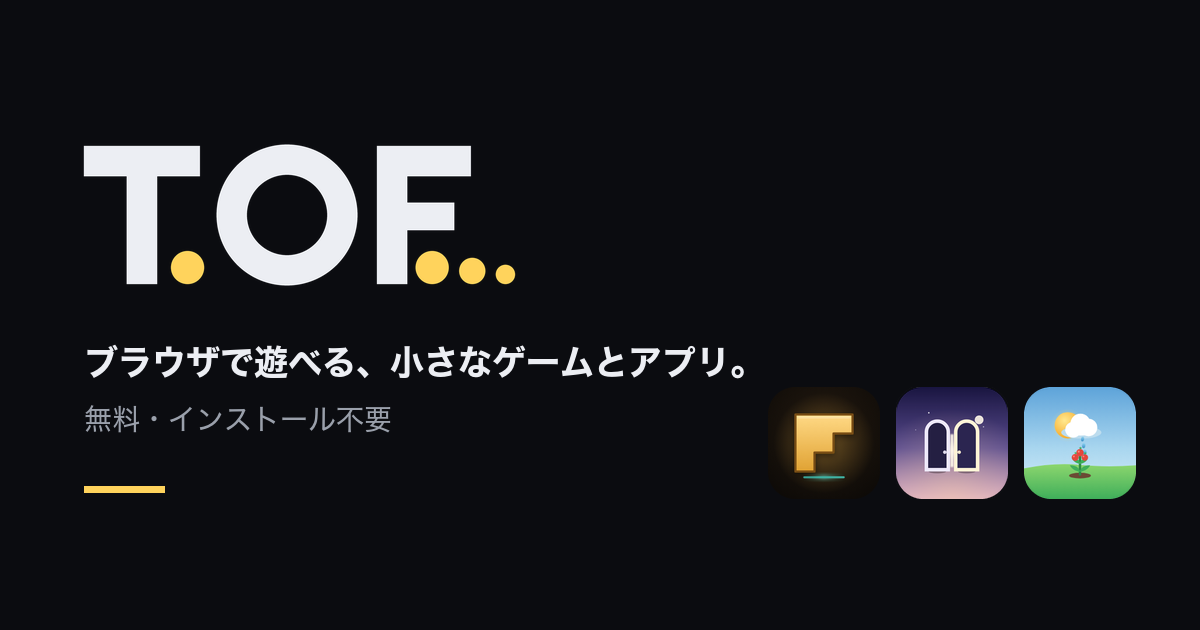
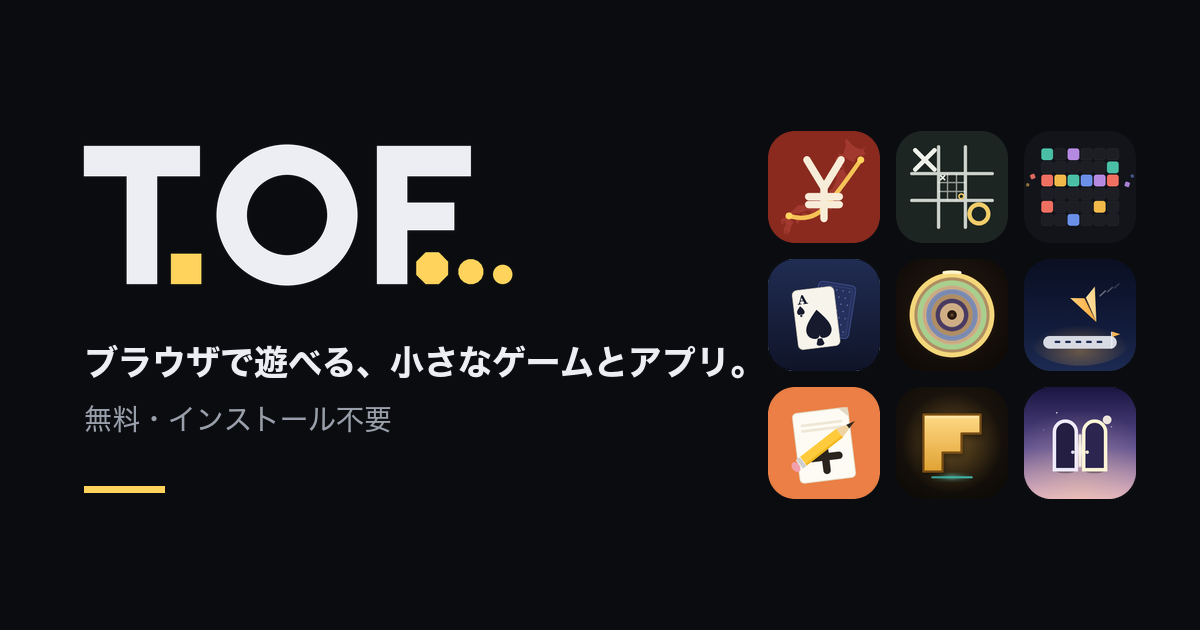
紙幣リレーをポータルに追加する
Cloudflare（shihei-relay.t-of.workers.dev）に置く、お札の記番号の追跡。
make-icons.py は workers.dev に断られないよう User-Agent を付ける。
DECISIONS.md に、日本語の名前・広告だけ・Cloudflare に置くことを書く。

Changed region(s): [[0.6167, 0.181, 0.9558, 0.8143], [0.1233, 0.3921, 0.185, 0.4524], [0.4008, 0.4222, 0.4317, 0.4524]]

diff --git a/apps.js b/apps.js
@@ -19,6 +19,18 @@
 
 window.TOFO_APPS = [
   {
+    id: 'shihei-relay',
+    name: '紙幣リレー',
+    title: '記番号でお札の行方をたどる',
+    desc: 'お札の記番号と場所を登録して、紙幣の行方を追跡。同じお札をほかの人が登録すると、どこからどこへ何 km 移ったかが地図に出る。撮影で記番号を読み取れ、ゾロ目などのレア番号も判定。',
+    category: 'tool',
+    tags: ['お札', '地図'],
+    host: 'cloudflare',
+    url: 'https://shihei-relay.t-of.workers.dev/',
+    icon: 'https://shihei-relay.t-of.workers.dev/icons/icon-192.png',
+    color: '#8a2a1f',
+  },
+  {
     id: 'super-marubatsu',
     name: 'スーパーマルバツゲーム',
     title: '9 つの三目並べで 3 つ並べる',

diff --git a/tools/make-icons.py b/tools/make-icons.py
@@ -36,7 +36,9 @@ S, cell = 112, 128                      # 3×3 に並べる
 x0, y0 = 1200 - 64 - 3 * cell + (cell - S), (630 - 3 * cell + (cell - S)) // 2
 for i, path in enumerate(icons[:9]):
     try:
-        raw = urllib.request.urlopen(path if path.startswith('http') else 'https://t-of.github.io' + path, timeout=10).read()
+        url = path if path.startswith('http') else 'https://t-of.github.io' + path
+        # workers.dev は Python の既定の User-Agent を 403 で断る
+        raw = urllib.request.urlopen(urllib.request.Request(url, headers={'User-Agent': 'Mozilla/5.0 (T.OF... make-icons)'}), timeout=10).read()
     except Exception as e:
         print('skip', path, e)
         continue

diff --git a/docs/DECISIONS.md b/docs/DECISIONS.md
@@ -151,3 +151,12 @@ Playwright で `channel: 'chrome'` を付けると、headless でも普段の Go
 - 対象は、課金を予定している ROWBREAK・LONE DECK・RINGGRAIN・LANDING DAY・PENCIL HOUR。RINGGRAIN と LANDING DAY は個人の記録を持つので、最初の公開から Cloudflare に置く（あとで移すと記録が移らない）。
 - 公開済みの 30 本ほどは今までどおり GitHub Pages。独自ドメインは今は取らない（上の決まりのまま）。
 - 決まりは RULES.md §13（課金・広告）・§14（Cloudflare に置くアプリ）。入れる前のチェック表は docs/private/legal/checklist.md。調べの元は docs/private/legal/monetization-law.md・monetization-security.md。
+
+### 紙幣リレー（shihei-relay、お札の追跡）は日本語の名前で、最初から Cloudflare に置く（2026-09-26 オーナー）
+- 権利の選択は「作る（収益化できる）」。記録（登録）を持つので、最初の公開から Cloudflare に置く（上の決まり）。
+- 名前は英語・カタカナの決まり（BRAND.md「アプリの名前」）の例外で、日本語にする。日本向けのサービスのため。
+- 共有データは Firebase（hue-hunter とは別のプロジェクト）。コンソールの操作はオーナー。
+- 他人に見せる場所は地図上の点（市区町村）、時刻まで見せてよい。地図は同梱の日本の輪郭。
+- 同じ仕組みの「お札の旅」（https://osatsu-no-tabi.ayago.workers.dev/ 、2026-09-26 試験公開）より使いたくなる UI・UX を目指す。
+- 名前は紙幣リレー（shihei-relay）。お金はユーザーからは取らず、広告だけ。広告は最初の版に入れず、使う人が増えてから（例: 月 1,000 人）。手渡しリンクの呼び方は「リレーのリンク」。
+- Cloudflare のアカウントは、ほかの課金アプリと同じもの（オーナー 2026-09-26）。
